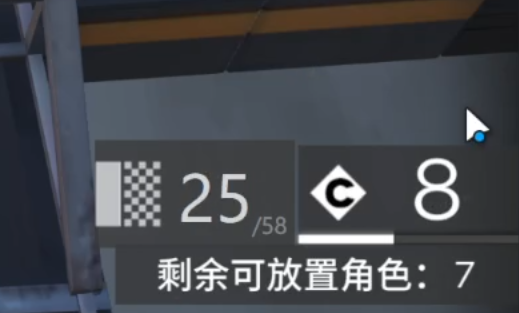
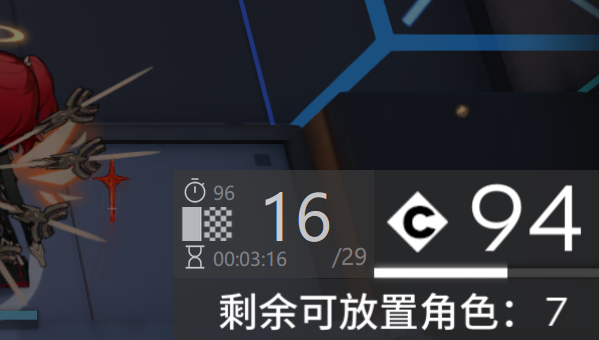
修改了README以适配新变化

diff --git a/README.md b/README.md
@@ -6,16 +6,19 @@
 
 ## 特性
 
-- **自适应费用条增长速度变化**: 不管是三减费还是二减费，都可以提供显示。
+- **自适应费用条速度变化**:
+  - 校准系统可以轻松处理三减费，二减费等环境。
+  - 快速切换不同的费用校准文件。
 - **实时显示**: 几乎无延迟的悬浮窗，实时反馈当前帧数。
 - **广泛的模拟器支持**:
   - **支持MuMu模拟器12截图增强**: 速度极快。
-  - **通用Minicap截图方案**: 兼容绝大多数支持ADB的模拟器。
+  - **通用Minicap截图方案**: 兼容绝大多数 Android 9 及以下的模拟器。
+- **分辨率自适应**: 自动计算费用条位置，无需手动设置。
 - **用户友好**:
-  - 首次运行提供配置设置向导。
+  - 首次运行提供连接设置向导。
   - 自动化的校准流程。
   - 可拖动的半透明悬浮窗，不遮挡游戏画面。
-- **分辨率自适应**: 自动计算费用条位置，无需手动设置。
+  - 提供全局计时器和停表功能
 
 ## 快速开始
 
@@ -26,21 +29,23 @@
     - 选择您使用的模拟器类型。
     - 点击“保存并启动”。
 4.  **首次校准**:
-    - 程序启动后，悬浮窗会提示您进行校准。
+    - 程序启动后，悬浮窗会提示您选择配置文件。
+    - 右键程序的托盘图标，选择 ` 校准配置 > -- 新建 -- `。
     - 进入任意关卡。
     - **点击一个干员（或者可选中单位，让游戏进入慢速模式）**。
-    - 点击悬浮窗左侧的“开始”按钮。
-    - 等待校准自动完成。
+    - 点击悬浮窗左侧按钮开始校准
 5.  **开始使用**: 
-    - 校准完成后，悬浮窗将实时显示逻辑帧数。
-    - 如果费用回复速率发生变化，需要重新校准，点击悬浮窗左侧的图标即可。
+    - 校准完成后，悬浮窗将实时显示当前帧数。
+    - 悬浮窗的左下角是**全局计时器**，显示当前游戏内时间。
+    - 点击全局计时器，悬浮窗的左上角会出现**停表**，显示相对帧数，再次点击全局计时器以让其消失。
+    - 如果费用回复速率发生变化，需要切换配置或重新校准，请右键托盘图标，在`连接配置`选项中更换或新建配置。
 
 ## 从源码运行
 
 1.  克隆本仓库: `git clone https://github.com/ZeroAd-06/ArknightsCostBarRuler.git`
 2.  下载Minicap二进制文件: `https://github.com/openatx/stf-binaries/tree/master/node_modules/minicap-prebuilt/prebuilt` 并添加到目录 `controllers/minicap` 中。
 3.  安装Python 3.8+。
-4.  安装依赖: `pip install Pillow pystray`
+4.  安装依赖: `pip install Pillow pystray ttkbootstrap`
 5.  运行主程序: `python main.py`
 
 ## 注意
